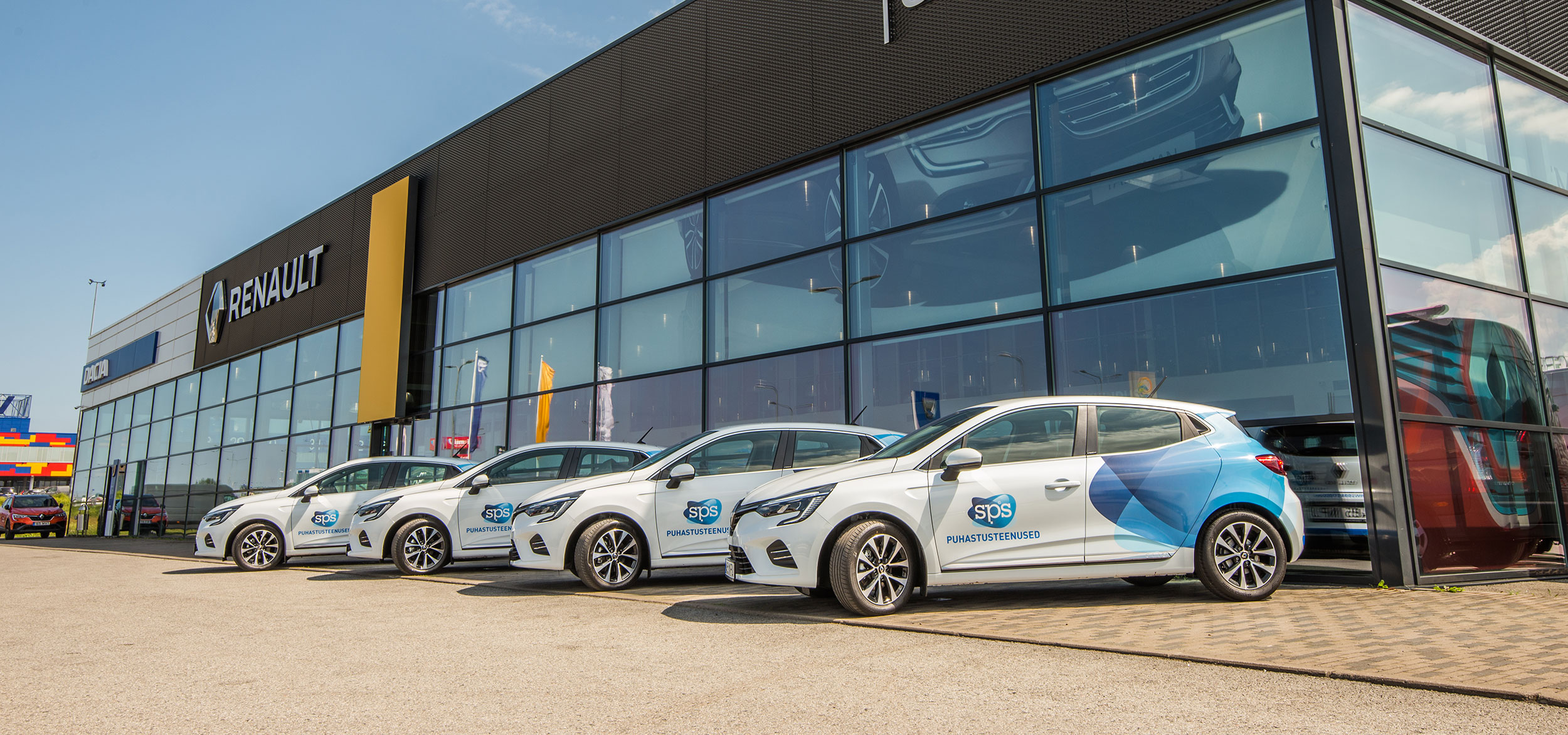
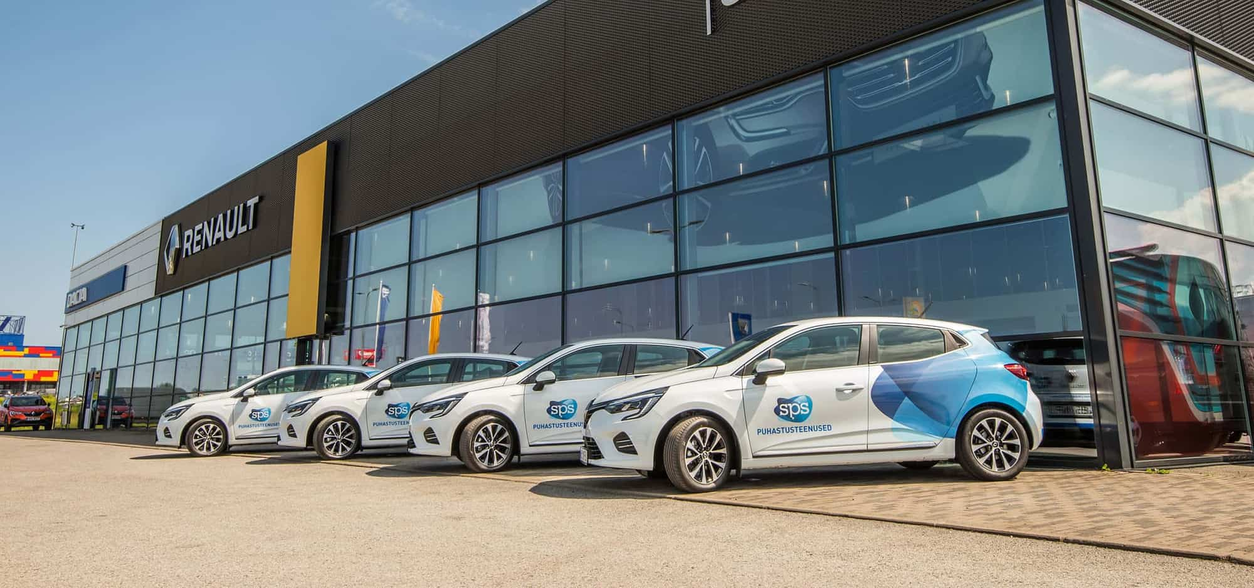
perf(lcp): 147KB hero, CSS-animated calculator, drop framer-motion + Geist Mono preload
- FrontHeroCar.jpg 678KB -> 147KB (2200w q52 progressive mozjpeg); source
  also feeds og:image and next/image optimizer inputs
- Hinnakalkulaator: replace the app's ONLY framer-motion usage (trivial
  fade-up) with the existing .animate-fade-up CSS class; framer-motion
  dependency removed entirely. Side benefit: framer SSR rendered the
  calculator at opacity:0 until hydration; the CSS version is visible
  without JS
- Geist Mono font: preload:false (below-the-fold price numbers only)
- Byte-diff: 122/141 identical; 15 diffs are the calculator pages
  (expected motion.div->div signature) + 4 intentionally deleted pages

diff --git a/app/components/Hinnakalkulaator.tsx b/app/components/Hinnakalkulaator.tsx
@@ -1,7 +1,6 @@
 "use client";
 
 import { useMemo, useState } from "react";
-import { motion } from "framer-motion";
 import type { Locale } from "@/lib/slug-map";
 import {
   calculateMaintenancePrice,
@@ -49,11 +48,8 @@ export default function Hinnakalkulaator({ locale = "et" }: { locale?: Locale })
   }, [area]);
 
   return (
-    <motion.div
-      initial={{ opacity: 0, y: 18 }}
-      animate={{ opacity: 1, y: 0 }}
-      transition={{ duration: 0.45 }}
-      className="rounded-[32px] bg-[#fafafa] p-8 md:p-10 text-[#2f353f] border border-[#eceef1]"
+    <div
+      className="rounded-[32px] bg-[#fafafa] p-8 md:p-10 text-[#2f353f] border border-[#eceef1] animate-fade-up"
     >
       <p className="uppercase tracking-[0.25em] text-[15px] text-[#5a6474] mb-6">
         {text.calculator}
@@ -97,6 +93,6 @@ export default function Hinnakalkulaator({ locale = "et" }: { locale?: Locale })
       >
         {text.cta} <span className="ml-2">→</span>
       </a>
-    </motion.div>
+    </div>
   );
 }

diff --git a/app/_shell/root-shell.tsx b/app/_shell/root-shell.tsx
@@ -16,6 +16,8 @@ const ubuntu = Ubuntu({
 const geistMono = Geist_Mono({
   variable: "--font-geist-mono",
   subsets: ["latin"],
+  // Used only for below-the-fold price numbers — skip the head preload.
+  preload: false,
 })
 
 const ORGANIZATION_SCHEMA = {
